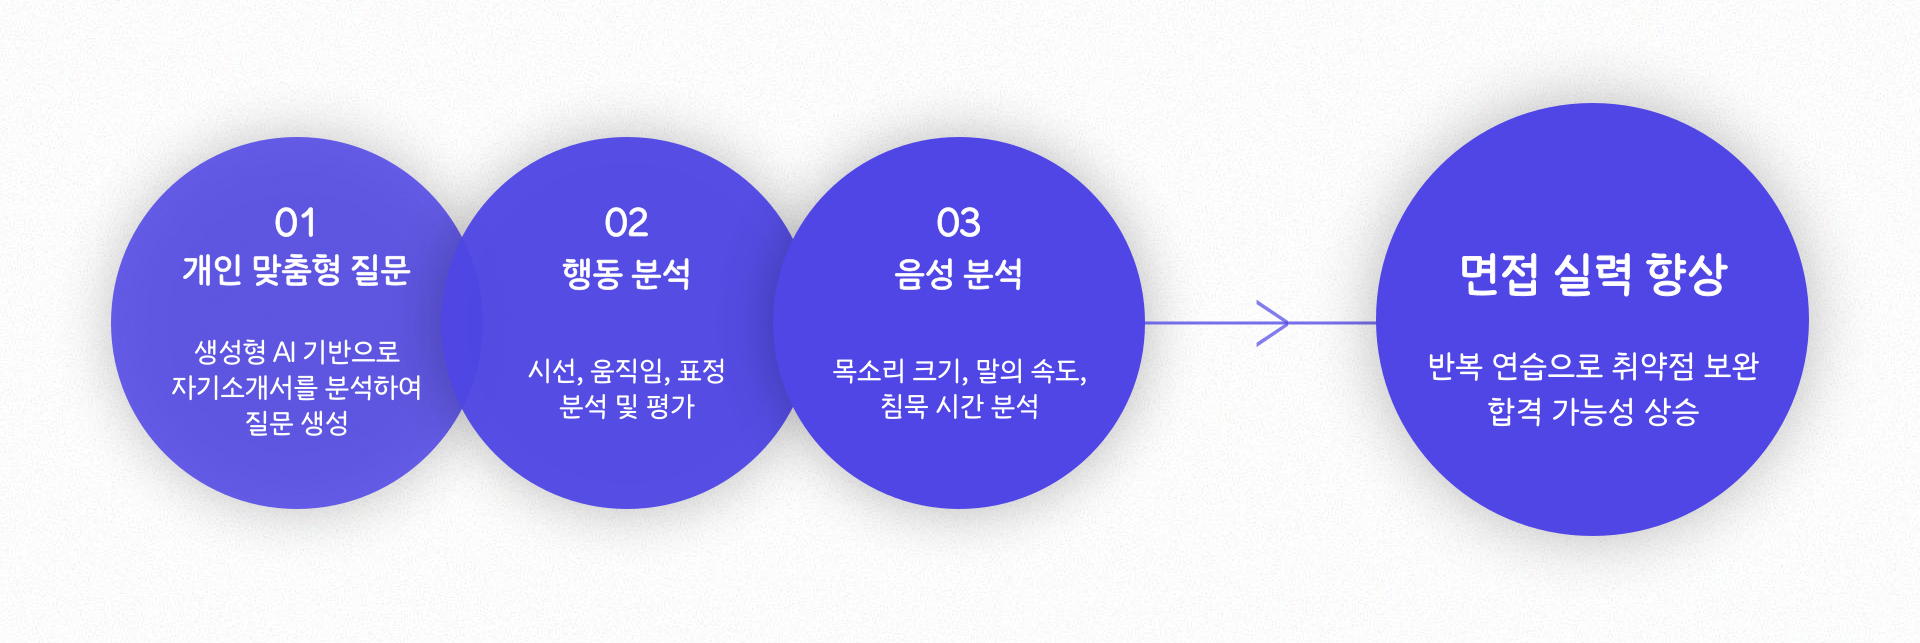
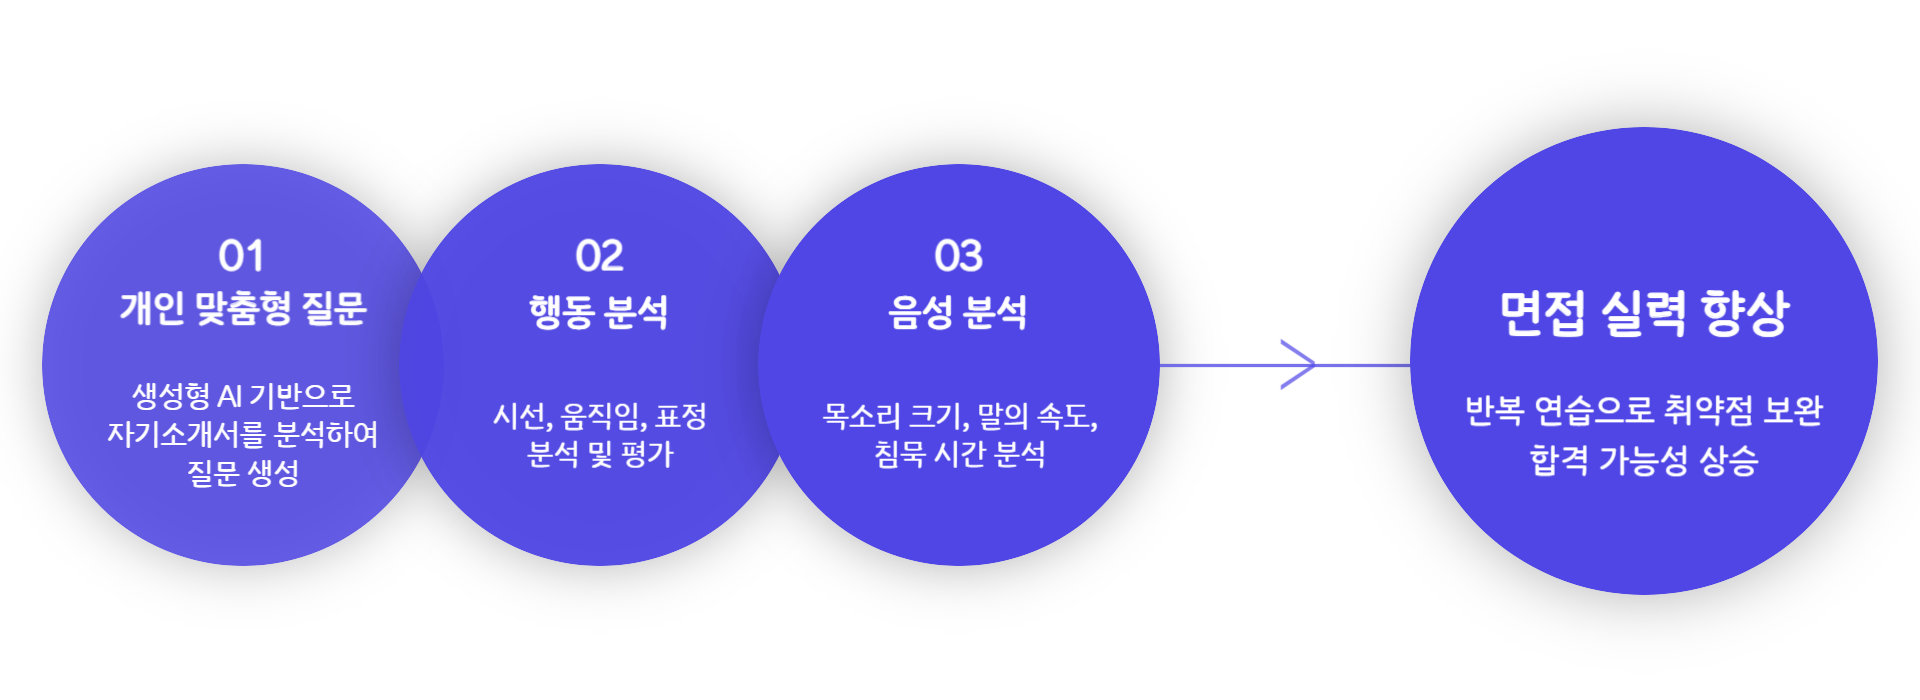
이미지, section2 수정

diff --git a/src/components/molecules/sections/Section2.js b/src/components/molecules/sections/Section2.js
@@ -29,12 +29,13 @@ const Section2 = () => {
   };
 
   return (
-    <div ref={ref} className="flex w-full min-h-1280 items-center justify-center">
+    <div ref={ref} className="flex max-w-8xl min-h-screen items-center justify-center bg-indigo-50">
+      <div className="flex w-3/4">
       <motion.div
         initial="hidden"
         animate={controls}
         variants={imageVariants}
-        className="flex-1 max-w-md"
+        className="w-3/4"
       >
         <img src={Sec2Img} alt="섹션2 이미지" className="w-full" />
       </motion.div>
@@ -42,11 +43,12 @@ const Section2 = () => {
         initial="hidden"
         animate={controls}
         variants={textVariants}
-        className="flex-1 pl-8 max-w-md"
+        className="pl-4 w-1/4"
       >
-        <h2 className="text-3xl font-bold mb-4">Section 2</h2>
-        <p className="text-lg">This is the content of section 2.</p>
+        <h2 className="text-4xl font-bold mb-4">AI기반으로 생성된 개인 맞춤형 질문</h2>
+        <p className="text-xl font-300">This is the content of section 2.</p>
       </motion.div>
+      </div>
     </div>
   );
 };
